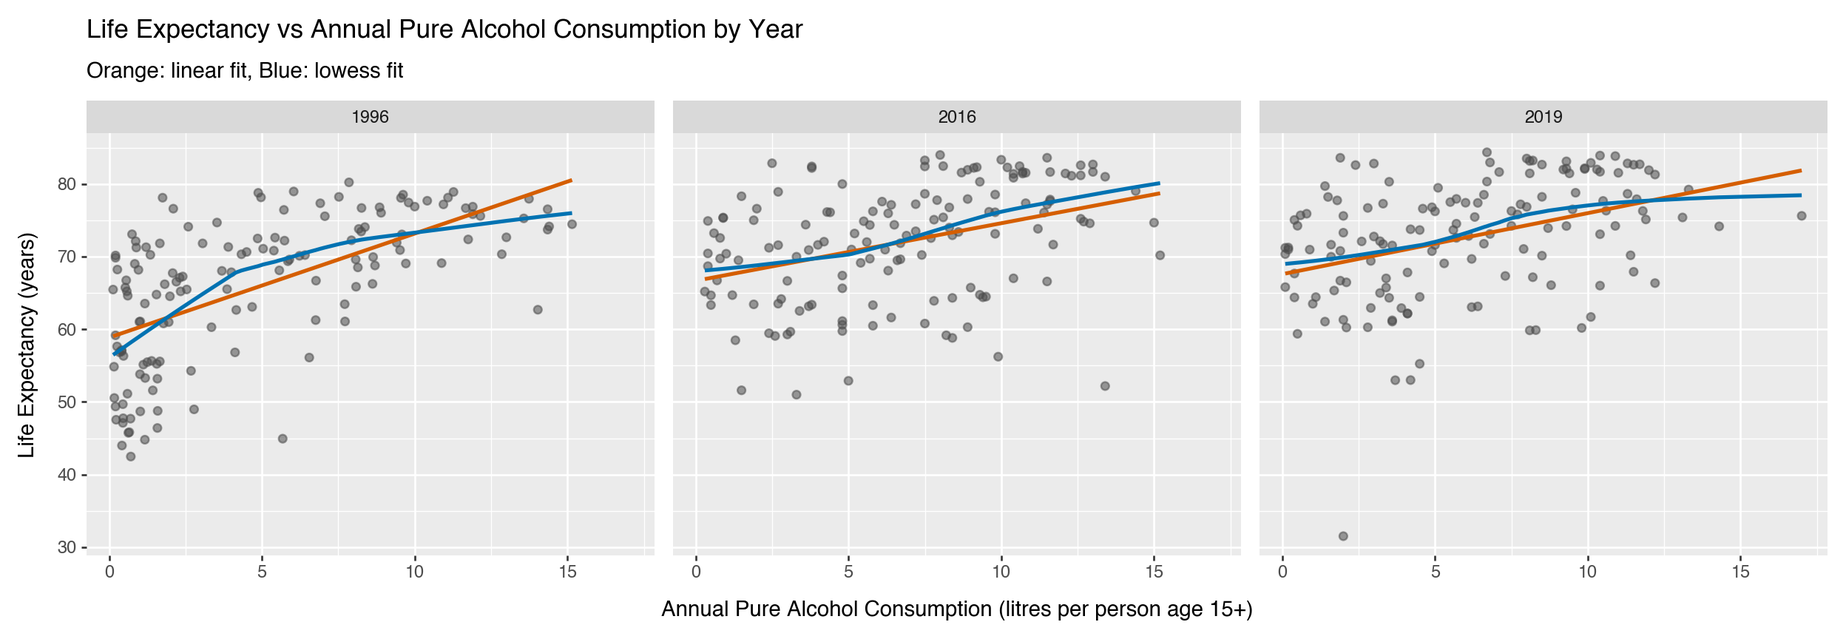
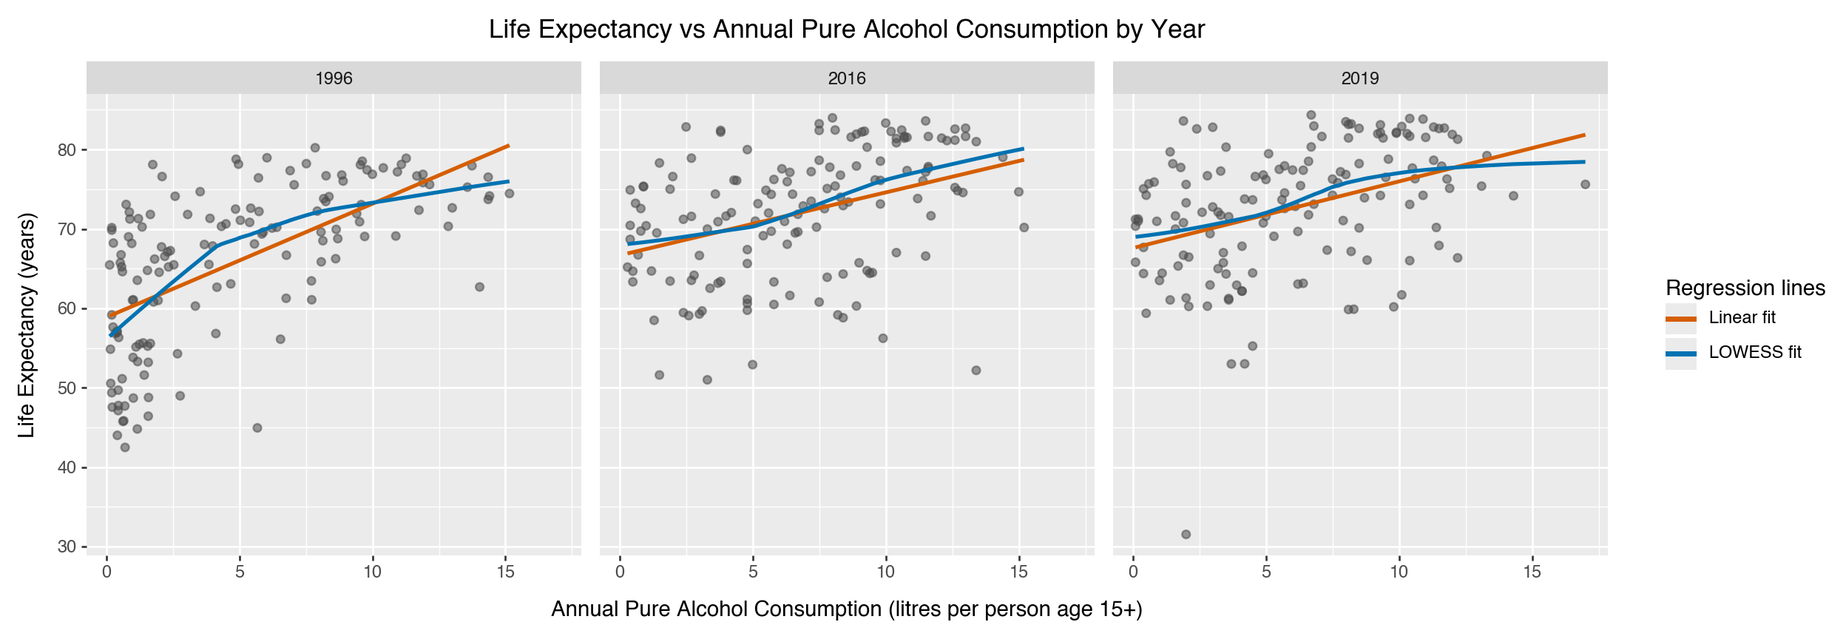
upload balanced handling missingness version of HW2 with Q5 fixed

diff --git a/Homework/hw2/hw2.html b/Homework/hw2/hw2.html
@@ -223,7 +223,7 @@ window.Quarto = {
 <span id="cb1-6"><a href="#cb1-6" aria-hidden="true" tabindex="-1"></a><span class="im">from</span> plotnine <span class="im">import</span> <span class="op">*</span></span>
 <span id="cb1-7"><a href="#cb1-7" aria-hidden="true" tabindex="-1"></a><span class="im">import</span> matplotlib.pyplot <span class="im">as</span> plt</span>
 <span id="cb1-8"><a href="#cb1-8" aria-hidden="true" tabindex="-1"></a><span class="im">import</span> statsmodels.api <span class="im">as</span> sm</span>
-<span id="cb1-9"><a href="#cb1-9" aria-hidden="true" tabindex="-1"></a><span class="im">from</span> pygam <span class="im">import</span> LinearGAM, s, l</span></code></pre></div><button title="Copy to Clipboard" class="code-copy-button"><i class="bi"></i></button></div>
+<span id="cb1-9"><a href="#cb1-9" aria-hidden="true" tabindex="-1"></a><span class="im">from</span> pygam <span class="im">import</span> LinearGAM, s, l, f</span></code></pre></div><button title="Copy to Clipboard" class="code-copy-button"><i class="bi"></i></button></div>
 </div>
 </section>
 <section id="data-acquisition-and-wrangling" class="level1">
@@ -2675,7 +2675,10 @@ max                           17.000000  </code></pre>
 <span id="cb36-20"><a href="#cb36-20" aria-hidden="true" tabindex="-1"></a><span class="bu">print</span>(<span class="st">"Rows after country-level missing handling:"</span>, merged_df_q1_clean.shape[<span class="dv">0</span>])</span>
 <span id="cb36-21"><a href="#cb36-21" aria-hidden="true" tabindex="-1"></a><span class="bu">print</span>(<span class="st">"Any missing left in core variables:"</span>, merged_df_q1_clean[core_vars].isna().<span class="bu">any</span>().<span class="bu">any</span>())</span>
 <span id="cb36-22"><a href="#cb36-22" aria-hidden="true" tabindex="-1"></a><span class="bu">print</span>(<span class="st">"</span><span class="ch">\n</span><span class="st">Unique year counts per country after filtering:"</span>)</span>
-<span id="cb36-23"><a href="#cb36-23" aria-hidden="true" tabindex="-1"></a><span class="bu">print</span>(merged_df_q1_clean.groupby(<span class="st">"country"</span>)[<span class="st">"year"</span>].nunique().value_counts().sort_index())</span></code></pre></div><button title="Copy to Clipboard" class="code-copy-button"><i class="bi"></i></button></div>
+<span id="cb36-23"><a href="#cb36-23" aria-hidden="true" tabindex="-1"></a><span class="bu">print</span>(merged_df_q1_clean.groupby(<span class="st">"country"</span>)[<span class="st">"year"</span>].nunique().value_counts().sort_index())</span>
+<span id="cb36-24"><a href="#cb36-24" aria-hidden="true" tabindex="-1"></a><span class="bu">print</span>(<span class="st">"</span><span class="ch">\n</span><span class="st">"</span>)</span>
+<span id="cb36-25"><a href="#cb36-25" aria-hidden="true" tabindex="-1"></a><span class="bu">print</span>(<span class="st">"Summary statistics:</span><span class="ch">\n</span><span class="st">"</span>)</span>
+<span id="cb36-26"><a href="#cb36-26" aria-hidden="true" tabindex="-1"></a><span class="bu">print</span>(merged_df_q1_clean.describe())</span></code></pre></div><button title="Copy to Clipboard" class="code-copy-button"><i class="bi"></i></button></div>
 <div class="cell-output cell-output-stdout">
 <pre><code>Countries before filtering: 188
 Countries dropped (had at least one missing value): 45
@@ -2686,7 +2689,30 @@ Any missing left in core variables: False
 Unique year counts per country after filtering:
 year
 3    143
-Name: count, dtype: int64</code></pre>
+Name: count, dtype: int64
+
+
+Summary statistics:
+
+              year  life_expectancy    population  gdp_per_capita  \
+count   429.000000       429.000000  4.290000e+02      429.000000   
+mean   2010.333333        70.178325  4.384044e+07    11811.801224   
+std      10.220848         9.247507  1.560493e+08    17688.257602   
+min    1996.000000        31.530000  1.709110e+05       71.406525   
+25%    1996.000000        64.618000  3.473003e+06     1258.986198   
+50%    2016.000000        71.651220  1.002428e+07     4081.947727   
+75%    2019.000000        76.870732  2.988438e+07    13838.526682   
+max    2019.000000        84.356341  1.407745e+09   112696.649060   
+
+       alcohol_litres_per_capita_15plus  
+count                        429.000000  
+mean                           5.899021  
+std                            4.055332  
+min                            0.100000  
+25%                            2.080000  
+50%                            5.700000  
+75%                            9.200000  
+max                           17.000000  </code></pre>
 </div>
 </div>
 <div id="eda-outliers" class="cell" data-message="false" data-execution_count="15">
@@ -3044,7 +3070,7 @@ GDP per capita Q3 (75th percentile): 13838.527</code></pre>
 <span id="cb45-15"><a href="#cb45-15" aria-hidden="true" tabindex="-1"></a>)</span>
 <span id="cb45-16"><a href="#cb45-16" aria-hidden="true" tabindex="-1"></a></span>
 <span id="cb45-17"><a href="#cb45-17" aria-hidden="true" tabindex="-1"></a>life_expectancy_plot</span></code></pre></div><button title="Copy to Clipboard" class="code-copy-button"><i class="bi"></i></button></div>
-<div class="cell-output cell-output-display" data-execution_count="253">
+<div class="cell-output cell-output-display" data-execution_count="19">
 <div>
 <figure class="figure">
 <p><img src="hw2_files/figure-html/a-life-expectancy-plot-output-1.png" id="a-life-expectancy-plot" width="960" height="480" class="figure-img"></p>
@@ -3068,7 +3094,7 @@ GDP per capita Q3 (75th percentile): 13838.527</code></pre>
 <span id="cb46-13"><a href="#cb46-13" aria-hidden="true" tabindex="-1"></a>)</span>
 <span id="cb46-14"><a href="#cb46-14" aria-hidden="true" tabindex="-1"></a></span>
 <span id="cb46-15"><a href="#cb46-15" aria-hidden="true" tabindex="-1"></a>alcohol_consumption_plot</span></code></pre></div><button title="Copy to Clipboard" class="code-copy-button"><i class="bi"></i></button></div>
-<div class="cell-output cell-output-display" data-execution_count="254">
+<div class="cell-output cell-output-display" data-execution_count="20">
 <div>
 <figure class="figure">
 <p><img src="hw2_files/figure-html/a-alcohol-consumption-plot-output-1.png" id="a-alcohol-consumption-plot" width="960" height="480" class="figure-img"></p>
@@ -3093,20 +3119,21 @@ GDP per capita Q3 (75th percentile): 13838.527</code></pre>
 <span id="cb47-10"><a href="#cb47-10" aria-hidden="true" tabindex="-1"></a>        ),</span>
 <span id="cb47-11"><a href="#cb47-11" aria-hidden="true" tabindex="-1"></a>    )</span>
 <span id="cb47-12"><a href="#cb47-12" aria-hidden="true" tabindex="-1"></a>    <span class="op">+</span> geom_point(alpha<span class="op">=</span><span class="fl">0.55</span>, size<span class="op">=</span><span class="fl">1.8</span>, color<span class="op">=</span><span class="st">"#4D4D4D"</span>)</span>
-<span id="cb47-13"><a href="#cb47-13" aria-hidden="true" tabindex="-1"></a>    <span class="op">+</span> geom_smooth(method<span class="op">=</span><span class="st">"lm"</span>, se<span class="op">=</span><span class="va">False</span>, color<span class="op">=</span><span class="st">"#D55E00"</span>, size<span class="op">=</span><span class="fl">1.1</span>)</span>
-<span id="cb47-14"><a href="#cb47-14" aria-hidden="true" tabindex="-1"></a>    <span class="op">+</span> geom_smooth(method<span class="op">=</span><span class="st">"lowess"</span>, se<span class="op">=</span><span class="va">False</span>, color<span class="op">=</span><span class="st">"#0072B2"</span>, size<span class="op">=</span><span class="fl">1.1</span>)</span>
-<span id="cb47-15"><a href="#cb47-15" aria-hidden="true" tabindex="-1"></a>    <span class="op">+</span> facet_wrap(<span class="st">"~year"</span>, nrow<span class="op">=</span><span class="dv">1</span>)</span>
-<span id="cb47-16"><a href="#cb47-16" aria-hidden="true" tabindex="-1"></a>    <span class="op">+</span> labs(</span>
-<span id="cb47-17"><a href="#cb47-17" aria-hidden="true" tabindex="-1"></a>        title<span class="op">=</span><span class="st">"Life Expectancy vs Annual Pure Alcohol Consumption by Year"</span>,</span>
-<span id="cb47-18"><a href="#cb47-18" aria-hidden="true" tabindex="-1"></a>        subtitle<span class="op">=</span><span class="st">"Orange: linear fit, Blue: lowess fit"</span>,</span>
+<span id="cb47-13"><a href="#cb47-13" aria-hidden="true" tabindex="-1"></a>    <span class="op">+</span> geom_smooth(aes(color<span class="op">=</span><span class="st">'"Linear fit"'</span>), method<span class="op">=</span><span class="st">"lm"</span>, se<span class="op">=</span><span class="va">False</span>, size<span class="op">=</span><span class="fl">1.1</span>)</span>
+<span id="cb47-14"><a href="#cb47-14" aria-hidden="true" tabindex="-1"></a>    <span class="op">+</span> geom_smooth(aes(color<span class="op">=</span><span class="st">'"LOWESS fit"'</span>), method<span class="op">=</span><span class="st">"lowess"</span>, se<span class="op">=</span><span class="va">False</span>, size<span class="op">=</span><span class="fl">1.1</span>)</span>
+<span id="cb47-15"><a href="#cb47-15" aria-hidden="true" tabindex="-1"></a>    <span class="op">+</span> scale_color_manual(values<span class="op">=</span>{<span class="st">"Linear fit"</span>: <span class="st">"#D55E00"</span>, <span class="st">"LOWESS fit"</span>: <span class="st">"#0072B2"</span>})</span>
+<span id="cb47-16"><a href="#cb47-16" aria-hidden="true" tabindex="-1"></a>    <span class="op">+</span> facet_wrap(<span class="st">"~year"</span>, nrow<span class="op">=</span><span class="dv">1</span>)</span>
+<span id="cb47-17"><a href="#cb47-17" aria-hidden="true" tabindex="-1"></a>    <span class="op">+</span> labs(</span>
+<span id="cb47-18"><a href="#cb47-18" aria-hidden="true" tabindex="-1"></a>        title<span class="op">=</span><span class="st">"Life Expectancy vs Annual Pure Alcohol Consumption by Year"</span>,</span>
 <span id="cb47-19"><a href="#cb47-19" aria-hidden="true" tabindex="-1"></a>        x<span class="op">=</span><span class="st">"Annual Pure Alcohol Consumption (litres per person age 15+)"</span>,</span>
 <span id="cb47-20"><a href="#cb47-20" aria-hidden="true" tabindex="-1"></a>        y<span class="op">=</span><span class="st">"Life Expectancy (years)"</span>,</span>
-<span id="cb47-21"><a href="#cb47-21" aria-hidden="true" tabindex="-1"></a>    )</span>
-<span id="cb47-22"><a href="#cb47-22" aria-hidden="true" tabindex="-1"></a>    <span class="op">+</span> theme(figure_size<span class="op">=</span>(<span class="dv">13</span>, <span class="fl">4.5</span>))</span>
-<span id="cb47-23"><a href="#cb47-23" aria-hidden="true" tabindex="-1"></a>)</span>
-<span id="cb47-24"><a href="#cb47-24" aria-hidden="true" tabindex="-1"></a></span>
-<span id="cb47-25"><a href="#cb47-25" aria-hidden="true" tabindex="-1"></a>life_expectancy_vs_alcohol_consumption_plot</span></code></pre></div><button title="Copy to Clipboard" class="code-copy-button"><i class="bi"></i></button></div>
-<div class="cell-output cell-output-display" data-execution_count="255">
+<span id="cb47-21"><a href="#cb47-21" aria-hidden="true" tabindex="-1"></a>        color<span class="op">=</span><span class="st">"Regression lines"</span>,</span>
+<span id="cb47-22"><a href="#cb47-22" aria-hidden="true" tabindex="-1"></a>    )</span>
+<span id="cb47-23"><a href="#cb47-23" aria-hidden="true" tabindex="-1"></a>    <span class="op">+</span> theme(figure_size<span class="op">=</span>(<span class="dv">13</span>, <span class="fl">4.5</span>))</span>
+<span id="cb47-24"><a href="#cb47-24" aria-hidden="true" tabindex="-1"></a>)</span>
+<span id="cb47-25"><a href="#cb47-25" aria-hidden="true" tabindex="-1"></a></span>
+<span id="cb47-26"><a href="#cb47-26" aria-hidden="true" tabindex="-1"></a>life_expectancy_vs_alcohol_consumption_plot</span></code></pre></div><button title="Copy to Clipboard" class="code-copy-button"><i class="bi"></i></button></div>
+<div class="cell-output cell-output-display" data-execution_count="21">
 <div>
 <figure class="figure">
 <p><img src="hw2_files/figure-html/b-facet-scatter-linear-lowess-output-1.png" id="b-facet-scatter-linear-lowess" width="1248" height="432" class="figure-img"></p>
@@ -3136,7 +3163,7 @@ GDP per capita Q3 (75th percentile): 13838.527</code></pre>
 <span id="cb48-15"><a href="#cb48-15" aria-hidden="true" tabindex="-1"></a>)</span>
 <span id="cb48-16"><a href="#cb48-16" aria-hidden="true" tabindex="-1"></a></span>
 <span id="cb48-17"><a href="#cb48-17" aria-hidden="true" tabindex="-1"></a>alcohol_consumption_by_gdp_level_plot</span></code></pre></div><button title="Copy to Clipboard" class="code-copy-button"><i class="bi"></i></button></div>
-<div class="cell-output cell-output-display" data-execution_count="256">
+<div class="cell-output cell-output-display" data-execution_count="22">
 <div>
 <figure class="figure">
 <p><img src="hw2_files/figure-html/c-facet-boxplot-alcohol-by-gdp-level-output-1.png" id="c-facet-boxplot-alcohol-by-gdp-level" width="1152" height="461" class="figure-img"></p>
@@ -3183,15 +3210,16 @@ GDP per capita Q3 (75th percentile): 13838.527</code></pre>
 <span id="cb49-32"><a href="#cb49-32" aria-hidden="true" tabindex="-1"></a>    <span class="op">+</span> coord_flip()</span>
 <span id="cb49-33"><a href="#cb49-33" aria-hidden="true" tabindex="-1"></a>    <span class="op">+</span> labs(</span>
 <span id="cb49-34"><a href="#cb49-34" aria-hidden="true" tabindex="-1"></a>        title<span class="op">=</span><span class="st">"Life Expectancy in 1996 vs 2019 for Top 10 Countries by Largest Change"</span>,</span>
-<span id="cb49-35"><a href="#cb49-35" aria-hidden="true" tabindex="-1"></a>        x<span class="op">=</span><span class="st">"Country (ordered by absolute change)"</span>,</span>
-<span id="cb49-36"><a href="#cb49-36" aria-hidden="true" tabindex="-1"></a>        y<span class="op">=</span><span class="st">"Life Expectancy (years)"</span>,</span>
-<span id="cb49-37"><a href="#cb49-37" aria-hidden="true" tabindex="-1"></a>        fill<span class="op">=</span><span class="st">"Year"</span>,</span>
-<span id="cb49-38"><a href="#cb49-38" aria-hidden="true" tabindex="-1"></a>    )</span>
-<span id="cb49-39"><a href="#cb49-39" aria-hidden="true" tabindex="-1"></a>    <span class="op">+</span> theme(figure_size<span class="op">=</span>(<span class="dv">11</span>, <span class="dv">6</span>))</span>
-<span id="cb49-40"><a href="#cb49-40" aria-hidden="true" tabindex="-1"></a>)</span>
-<span id="cb49-41"><a href="#cb49-41" aria-hidden="true" tabindex="-1"></a></span>
-<span id="cb49-42"><a href="#cb49-42" aria-hidden="true" tabindex="-1"></a>plot_4d</span></code></pre></div><button title="Copy to Clipboard" class="code-copy-button"><i class="bi"></i></button></div>
-<div class="cell-output cell-output-display" data-execution_count="257">
+<span id="cb49-35"><a href="#cb49-35" aria-hidden="true" tabindex="-1"></a>        subtitle<span class="op">=</span><span class="st">"Countries ordered by absolute change in life expectancy in descending order"</span>,</span>
+<span id="cb49-36"><a href="#cb49-36" aria-hidden="true" tabindex="-1"></a>        x<span class="op">=</span><span class="st">"Country"</span>,</span>
+<span id="cb49-37"><a href="#cb49-37" aria-hidden="true" tabindex="-1"></a>        y<span class="op">=</span><span class="st">"Life Expectancy (years)"</span>,</span>
+<span id="cb49-38"><a href="#cb49-38" aria-hidden="true" tabindex="-1"></a>        fill<span class="op">=</span><span class="st">"Year"</span>,</span>
+<span id="cb49-39"><a href="#cb49-39" aria-hidden="true" tabindex="-1"></a>    )</span>
+<span id="cb49-40"><a href="#cb49-40" aria-hidden="true" tabindex="-1"></a>    <span class="op">+</span> theme(figure_size<span class="op">=</span>(<span class="dv">11</span>, <span class="dv">6</span>))</span>
+<span id="cb49-41"><a href="#cb49-41" aria-hidden="true" tabindex="-1"></a>)</span>
+<span id="cb49-42"><a href="#cb49-42" aria-hidden="true" tabindex="-1"></a></span>
+<span id="cb49-43"><a href="#cb49-43" aria-hidden="true" tabindex="-1"></a>plot_4d</span></code></pre></div><button title="Copy to Clipboard" class="code-copy-button"><i class="bi"></i></button></div>
+<div class="cell-output cell-output-display" data-execution_count="23">
 <div>
 <figure class="figure">
 <p><img src="hw2_files/figure-html/d-top10-life-expectancy-change-barplot-output-1.png" id="d-top10-life-expectancy-change-barplot" width="1056" height="576" class="figure-img"></p>
@@ -3229,7 +3257,7 @@ GDP per capita Q3 (75th percentile): 13838.527</code></pre>
 <span id="cb50-23"><a href="#cb50-23" aria-hidden="true" tabindex="-1"></a>)</span>
 <span id="cb50-24"><a href="#cb50-24" aria-hidden="true" tabindex="-1"></a></span>
 <span id="cb50-25"><a href="#cb50-25" aria-hidden="true" tabindex="-1"></a>alcohol_vs_life_expectancy_by_gdp_level_plot</span></code></pre></div><button title="Copy to Clipboard" class="code-copy-button"><i class="bi"></i></button></div>
-<div class="cell-output cell-output-display" data-execution_count="258">
+<div class="cell-output cell-output-display" data-execution_count="24">
 <div>
 <figure class="figure">
 <p><img src="hw2_files/figure-html/e-gdp-role-scatter-by-gdp-level-output-1.png" id="e-gdp-role-scatter-by-gdp-level" width="1152" height="461" class="figure-img"></p>
@@ -3261,74 +3289,84 @@ GDP per capita Q3 (75th percentile): 13838.527</code></pre>
 <span id="cb51-11"><a href="#cb51-11" aria-hidden="true" tabindex="-1"></a>    .copy()</span>
 <span id="cb51-12"><a href="#cb51-12" aria-hidden="true" tabindex="-1"></a>)</span>
 <span id="cb51-13"><a href="#cb51-13" aria-hidden="true" tabindex="-1"></a></span>
-<span id="cb51-14"><a href="#cb51-14" aria-hidden="true" tabindex="-1"></a><span class="co"># Center year to get a more interpretable year coefficient</span></span>
-<span id="cb51-15"><a href="#cb51-15" aria-hidden="true" tabindex="-1"></a>q5_df[<span class="st">"year_c"</span>] <span class="op">=</span> q5_df[<span class="st">"year"</span>] <span class="op">-</span> q5_df[<span class="st">"year"</span>].mean()</span>
-<span id="cb51-16"><a href="#cb51-16" aria-hidden="true" tabindex="-1"></a></span>
-<span id="cb51-17"><a href="#cb51-17" aria-hidden="true" tabindex="-1"></a>y <span class="op">=</span> q5_df[<span class="st">"life_expectancy"</span>].values</span>
-<span id="cb51-18"><a href="#cb51-18" aria-hidden="true" tabindex="-1"></a>X_linear <span class="op">=</span> q5_df[[<span class="st">"alcohol_litres_per_capita_15plus"</span>, <span class="st">"gdp_per_capita"</span>, <span class="st">"year_c"</span>]].values</span>
-<span id="cb51-19"><a href="#cb51-19" aria-hidden="true" tabindex="-1"></a>X_linear_const <span class="op">=</span> sm.add_constant(X_linear)</span>
+<span id="cb51-14"><a href="#cb51-14" aria-hidden="true" tabindex="-1"></a><span class="co"># Treat year as an ordered categorical variable with explicit levels</span></span>
+<span id="cb51-15"><a href="#cb51-15" aria-hidden="true" tabindex="-1"></a>q5_df[<span class="st">"year"</span>] <span class="op">=</span> pd.Categorical(</span>
+<span id="cb51-16"><a href="#cb51-16" aria-hidden="true" tabindex="-1"></a>    q5_df[<span class="st">"year"</span>],</span>
+<span id="cb51-17"><a href="#cb51-17" aria-hidden="true" tabindex="-1"></a>    categories<span class="op">=</span>[<span class="dv">1996</span>, <span class="dv">2016</span>, <span class="dv">2019</span>],</span>
+<span id="cb51-18"><a href="#cb51-18" aria-hidden="true" tabindex="-1"></a>    ordered<span class="op">=</span><span class="va">False</span>,</span>
+<span id="cb51-19"><a href="#cb51-19" aria-hidden="true" tabindex="-1"></a>)</span>
 <span id="cb51-20"><a href="#cb51-20" aria-hidden="true" tabindex="-1"></a></span>
-<span id="cb51-21"><a href="#cb51-21" aria-hidden="true" tabindex="-1"></a>linear_mod_5 <span class="op">=</span> sm.OLS(y, X_linear_const).fit()</span>
-<span id="cb51-22"><a href="#cb51-22" aria-hidden="true" tabindex="-1"></a><span class="bu">print</span>(<span class="st">"Multiple Linear Regression (OLS) Summary"</span>)</span>
-<span id="cb51-23"><a href="#cb51-23" aria-hidden="true" tabindex="-1"></a><span class="bu">print</span>(linear_mod_5.summary())</span>
-<span id="cb51-24"><a href="#cb51-24" aria-hidden="true" tabindex="-1"></a></span>
-<span id="cb51-25"><a href="#cb51-25" aria-hidden="true" tabindex="-1"></a>X_gam <span class="op">=</span> q5_df[[<span class="st">"alcohol_litres_per_capita_15plus"</span>, <span class="st">"gdp_per_capita"</span>, <span class="st">"year_c"</span>]].values</span>
-<span id="cb51-26"><a href="#cb51-26" aria-hidden="true" tabindex="-1"></a>gam_mod_5 <span class="op">=</span> LinearGAM(</span>
-<span id="cb51-27"><a href="#cb51-27" aria-hidden="true" tabindex="-1"></a>    s(<span class="dv">0</span>, n_splines<span class="op">=</span><span class="dv">20</span>) <span class="op">+</span>  <span class="co"># smooth alcohol</span></span>
-<span id="cb51-28"><a href="#cb51-28" aria-hidden="true" tabindex="-1"></a>    s(<span class="dv">1</span>, n_splines<span class="op">=</span><span class="dv">20</span>) <span class="op">+</span>  <span class="co"># smooth GDP per capita</span></span>
-<span id="cb51-29"><a href="#cb51-29" aria-hidden="true" tabindex="-1"></a>    l(<span class="dv">2</span>)                  <span class="co"># linear year adjustment since it only has three possible values (1996, 2016, 2019) before centering</span></span>
-<span id="cb51-30"><a href="#cb51-30" aria-hidden="true" tabindex="-1"></a>).fit(X_gam, y)</span>
-<span id="cb51-31"><a href="#cb51-31" aria-hidden="true" tabindex="-1"></a></span>
-<span id="cb51-32"><a href="#cb51-32" aria-hidden="true" tabindex="-1"></a><span class="bu">print</span>(<span class="st">"</span><span class="ch">\n</span><span class="st">GAM Summary"</span>)</span>
-<span id="cb51-33"><a href="#cb51-33" aria-hidden="true" tabindex="-1"></a><span class="bu">print</span>(gam_mod_5.summary())</span></code></pre></div><button title="Copy to Clipboard" class="code-copy-button"><i class="bi"></i></button></div>
+<span id="cb51-21"><a href="#cb51-21" aria-hidden="true" tabindex="-1"></a>y <span class="op">=</span> q5_df[<span class="st">"life_expectancy"</span>].values</span>
+<span id="cb51-22"><a href="#cb51-22" aria-hidden="true" tabindex="-1"></a>X_linear_base <span class="op">=</span> q5_df[[<span class="st">"alcohol_litres_per_capita_15plus"</span>, <span class="st">"gdp_per_capita"</span>]]</span>
+<span id="cb51-23"><a href="#cb51-23" aria-hidden="true" tabindex="-1"></a>year_dummies <span class="op">=</span> pd.get_dummies(q5_df[<span class="st">"year"</span>], prefix<span class="op">=</span><span class="st">"year"</span>, drop_first<span class="op">=</span><span class="va">True</span>, dtype<span class="op">=</span><span class="bu">int</span>)</span>
+<span id="cb51-24"><a href="#cb51-24" aria-hidden="true" tabindex="-1"></a>X_linear <span class="op">=</span> pd.concat([X_linear_base, year_dummies], axis<span class="op">=</span><span class="dv">1</span>)</span>
+<span id="cb51-25"><a href="#cb51-25" aria-hidden="true" tabindex="-1"></a>X_linear_const <span class="op">=</span> sm.add_constant(X_linear, has_constant<span class="op">=</span><span class="st">"add"</span>)</span>
+<span id="cb51-26"><a href="#cb51-26" aria-hidden="true" tabindex="-1"></a></span>
+<span id="cb51-27"><a href="#cb51-27" aria-hidden="true" tabindex="-1"></a>linear_mod_5 <span class="op">=</span> sm.OLS(y, X_linear_const).fit()</span>
+<span id="cb51-28"><a href="#cb51-28" aria-hidden="true" tabindex="-1"></a><span class="bu">print</span>(<span class="st">"Multiple Linear Regression (OLS) Summary"</span>)</span>
+<span id="cb51-29"><a href="#cb51-29" aria-hidden="true" tabindex="-1"></a><span class="bu">print</span>(linear_mod_5.summary())</span>
+<span id="cb51-30"><a href="#cb51-30" aria-hidden="true" tabindex="-1"></a></span>
+<span id="cb51-31"><a href="#cb51-31" aria-hidden="true" tabindex="-1"></a>q5_df[<span class="st">"year_factor"</span>] <span class="op">=</span> q5_df[<span class="st">"year"</span>].cat.codes</span>
+<span id="cb51-32"><a href="#cb51-32" aria-hidden="true" tabindex="-1"></a>X_gam <span class="op">=</span> q5_df[</span>
+<span id="cb51-33"><a href="#cb51-33" aria-hidden="true" tabindex="-1"></a>    [<span class="st">"alcohol_litres_per_capita_15plus"</span>, <span class="st">"gdp_per_capita"</span>, <span class="st">"year_factor"</span>]</span>
+<span id="cb51-34"><a href="#cb51-34" aria-hidden="true" tabindex="-1"></a>].values</span>
+<span id="cb51-35"><a href="#cb51-35" aria-hidden="true" tabindex="-1"></a>gam_mod_5 <span class="op">=</span> LinearGAM(</span>
+<span id="cb51-36"><a href="#cb51-36" aria-hidden="true" tabindex="-1"></a>    s(<span class="dv">0</span>, n_splines<span class="op">=</span><span class="dv">20</span>) <span class="op">+</span>  <span class="co"># smooth alcohol</span></span>
+<span id="cb51-37"><a href="#cb51-37" aria-hidden="true" tabindex="-1"></a>    s(<span class="dv">1</span>, n_splines<span class="op">=</span><span class="dv">20</span>) <span class="op">+</span>  <span class="co"># smooth GDP per capita</span></span>
+<span id="cb51-38"><a href="#cb51-38" aria-hidden="true" tabindex="-1"></a>    f(<span class="dv">2</span>)                  <span class="co"># categorical year adjustment (1996 baseline, 2016 and 2019 indicators)</span></span>
+<span id="cb51-39"><a href="#cb51-39" aria-hidden="true" tabindex="-1"></a>).fit(X_gam, y)</span>
+<span id="cb51-40"><a href="#cb51-40" aria-hidden="true" tabindex="-1"></a></span>
+<span id="cb51-41"><a href="#cb51-41" aria-hidden="true" tabindex="-1"></a><span class="bu">print</span>(<span class="st">"</span><span class="ch">\n</span><span class="st">GAM Summary"</span>)</span>
+<span id="cb51-42"><a href="#cb51-42" aria-hidden="true" tabindex="-1"></a><span class="bu">print</span>(gam_mod_5.summary())</span></code></pre></div><button title="Copy to Clipboard" class="code-copy-button"><i class="bi"></i></button></div>
 <div class="cell-output cell-output-stdout">
 <pre><code>Multiple Linear Regression (OLS) Summary
                             OLS Regression Results                            
 ==============================================================================
 Dep. Variable:                      y   R-squared:                       0.488
-Model:                            OLS   Adj. R-squared:                  0.485
-Method:                 Least Squares   F-statistic:                     135.2
-Date:                Sun, 15 Feb 2026   Prob (F-statistic):           1.74e-61
-Time:                        00:33:53   Log-Likelihood:                -1418.8
-No. Observations:                 429   AIC:                             2846.
-Df Residuals:                     425   BIC:                             2862.
-Df Model:                           3                                         
+Model:                            OLS   Adj. R-squared:                  0.483
+Method:                 Least Squares   F-statistic:                     101.1
+Date:                Sun, 15 Feb 2026   Prob (F-statistic):           2.17e-60
+Time:                        18:06:28   Log-Likelihood:                -1418.8
+No. Observations:                 429   AIC:                             2848.
+Df Residuals:                     424   BIC:                             2868.
+Df Model:                           4                                         
 Covariance Type:            nonrobust                                         
+====================================================================================================
+                                       coef    std err          t      P&gt;|t|      [0.025      0.975]
+----------------------------------------------------------------------------------------------------
+const                               61.2749      0.682     89.785      0.000      59.933      62.616
+alcohol_litres_per_capita_15plus     0.5917      0.089      6.623      0.000       0.416       0.767
+gdp_per_capita                       0.0002   2.05e-05     11.972      0.000       0.000       0.000
+year_2016                            3.4379      0.804      4.278      0.000       1.858       5.017
+year_2019                            4.0946      0.802      5.108      0.000       2.519       5.670
 ==============================================================================
-                 coef    std err          t      P&gt;|t|      [0.025      0.975]
-------------------------------------------------------------------------------
-const         63.7931      0.572    111.481      0.000      62.668      64.918
-x1             0.5900      0.089      6.654      0.000       0.416       0.764
-x2             0.0002   2.05e-05     12.017      0.000       0.000       0.000
-x3             0.1758      0.032      5.462      0.000       0.113       0.239
-==============================================================================
-Omnibus:                       77.661   Durbin-Watson:                   0.835
-Prob(Omnibus):                  0.000   Jarque-Bera (JB):              132.434
-Skew:                          -1.064   Prob(JB):                     1.75e-29
-Kurtosis:                       4.698   Cond. No.                     3.82e+04
+Omnibus:                       77.837   Durbin-Watson:                   0.835
+Prob(Omnibus):                  0.000   Jarque-Bera (JB):              133.082
+Skew:                          -1.064   Prob(JB):                     1.26e-29
+Kurtosis:                       4.707   Cond. No.                     7.17e+04
 ==============================================================================
 
 Notes:
 [1] Standard Errors assume that the covariance matrix of the errors is correctly specified.
-[2] The condition number is large, 3.82e+04. This might indicate that there are
+[2] The condition number is large, 7.17e+04. This might indicate that there are
 strong multicollinearity or other numerical problems.
 
 GAM Summary
 LinearGAM                                                                                                 
 =============================================== ==========================================================
-Distribution:                        NormalDist Effective DoF:                                     21.9353
-Link Function:                     IdentityLink Log Likelihood:                                 -1295.6639
-Number of Samples:                          429 AIC:                                             2637.1983
-                                                AICc:                                            2639.9088
-                                                GCV:                                               28.4945
-                                                Scale:                                              5.0877
-                                                Pseudo R-Squared:                                   0.7121
+Distribution:                        NormalDist Effective DoF:                                     22.9187
+Link Function:                     IdentityLink Log Likelihood:                                 -1295.6402
+Number of Samples:                          429 AIC:                                             2639.1178
+                                                AICc:                                            2642.0679
+                                                GCV:                                               28.6857
+                                                Scale:                                              5.0932
+                                                Pseudo R-Squared:                                   0.7122
 ==========================================================================================================
 Feature Function                  Lambda               Rank         EDoF         P &gt; x        Sig. Code   
 ================================= ==================== ============ ============ ============ ============
-s(0)                              [0.6]                20           12.2         8.48e-01                 
+s(0)                              [0.6]                20           12.2         8.50e-01                 
 s(1)                              [0.6]                20           8.8          1.11e-16     ***         
-l(2)                              [0.6]                1            1.0          7.58e-03     **          
+f(2)                              [0.6]                3            1.9          6.69e-02     .           
 intercept                                              1            0.0          1.11e-16     ***         
 ==========================================================================================================
 Significance codes:  0 '***' 0.001 '**' 0.01 '*' 0.05 '.' 0.1 ' ' 1
@@ -3345,15 +3383,16 @@ None</code></pre>
 <p><strong>Interpretation:</strong></p>
 <p>Linear Model (OLS) Estimates:</p>
 <ul>
-<li><strong>Alcohol (<code>x1</code>):</strong> <span class="math inline">\(\hat{\beta} = 0.590\)</span> (<span class="math inline">\(p &lt; 0.001 &lt; 0.05\)</span>, therefore statistically significant). While holding other variables constant, a one litre increase in annual alcohol consumption per capita leads to an increase of approximately 0.59 years on average in expected life expectancy.</li>
-<li><strong>GDP per capita (<code>x2</code>):</strong> <span class="math inline">\(\hat{\beta} = 0.0002\)</span> (<span class="math inline">\(p &lt; 0.001 &lt; 0.05\)</span>, therefore statistically significant). While holding other variables constant, a 1 current US dollar increase in GDP per capita leads to an approximately 0.0002 years increase on average in expected life expectancy.</li>
-<li><strong>Year (<code>x3</code>, centered):</strong> <span class="math inline">\(\hat{\beta} = 0.176\)</span> (<span class="math inline">\(p &lt; 0.001 &lt; 0.05\)</span>, therefore statistically significant). While holding other variables constant, each additional year is associated with an approximately 0.18 years increase on average in expected life expectancy.</li>
-<li><strong>Overall Fit:</strong> The adjusted <span class="math inline">\(R^2\)</span> is 0.485, indicating the linear model explains about 48.5% of the variance.</li>
+<li><strong>Alcohol (<code>x1</code>):</strong> <span class="math inline">\(\hat{\beta} = 0.592\)</span> (<span class="math inline">\(p &lt; 0.05\)</span>, therefore statistically significant). While holding other variables constant, a one litre increase in annual alcohol consumption per capita leads to an increase of approximately 0.592 years on average in expected life expectancy.</li>
+<li><strong>GDP per capita (<code>x2</code>):</strong> <span class="math inline">\(\hat{\beta} = 0.0002\)</span> (<span class="math inline">\(p  &lt; 0.05\)</span>, therefore statistically significant). While holding other variables constant, a 1 current US dollar increase in GDP per capita leads to an approximately 0.0002 years increase on average in expected life expectancy.</li>
+<li><strong>Year (categorical, reference level = 1996):</strong> Comparing to 1996, life expectancy is higher by about 3.44 years in 2016 (<span class="math inline">\(p&lt;0.05\)</span>, therefore statistically significant) and by about 4.09 years in 2019 (<span class="math inline">\(p &lt; 0.05\)</span>, therefore statistically significant), <strong>holding alcohol consumption and GDP per capita constant</strong>.</li>
+<li><strong>Overall Fit:</strong> The adjusted <span class="math inline">\(R^2\)</span> is 0.483, indicating the linear model explains about 48.3% of the variance.</li>
 </ul>
 <p>GAM (Non-linear) Estimates:</p>
 <ul>
-<li><strong>Alcohol (<code>s(0)</code>):</strong> The smooth term for alcohol has an EDoF of 12.2 but a p-value of 0.848 which is greater than 0.05 (the threshold for statistical significance), suggesting that after adjusting for the non-linear effect of GDP and linear effect of year, the relationship between alcohol and life expectancy is not statistically significant in this flexible model.</li>
-<li><strong>GDP per capita (<code>s(1)</code>):</strong> The smooth term for GDP has an EDoF of 8.8 and is highly statistically significant (<span class="math inline">\(p &lt; 0.001 &lt; 0.05\)</span>). The EDoF &gt; 1 indicates a strong non-linear relationship (likely diminishing returns where life expectancy rises with GDP but plateaus at higher levels).</li>
+<li><strong>Alcohol (<code>s(0)</code>):</strong> The smooth term for alcohol has an EDoF of 12.2 but a p-value of 0.85 which is greater than 0.05 (the threshold for statistical significance), suggesting that after adjusting for the non-linear effect of GDP and the categorical year effect, the relationship between alcohol and life expectancy is not statistically significant in this flexible model.</li>
+<li><strong>GDP per capita (<code>s(1)</code>):</strong> The smooth term for GDP has an EDoF of 8.8 and is highly statistically significant (<span class="math inline">\(p &lt; 0.05\)</span>). The EDoF &gt; 1 indicates a strong non-linear relationship (likely diminishing returns where life expectancy rises with GDP but plateaus at higher levels).</li>
+<li><strong>Year (<code>f(2)</code>):</strong> The year factor has EDoF 1.9 with (<span class="math inline">\(p = 0.0669 &gt; 0.05\)</span>), which is marginal evidence at the 0.05 level (suggestive differences by year, but weaker once non-linear GDP is modeled).</li>
 <li><strong>Overall Fit:</strong> The Pseudo <span class="math inline">\(R^2\)</span> is 0.712, which is substantially higher than the linear model, suggesting that incorporating non-linearity provides a much better fit to the data.</li>
 </ul>
 </section>
